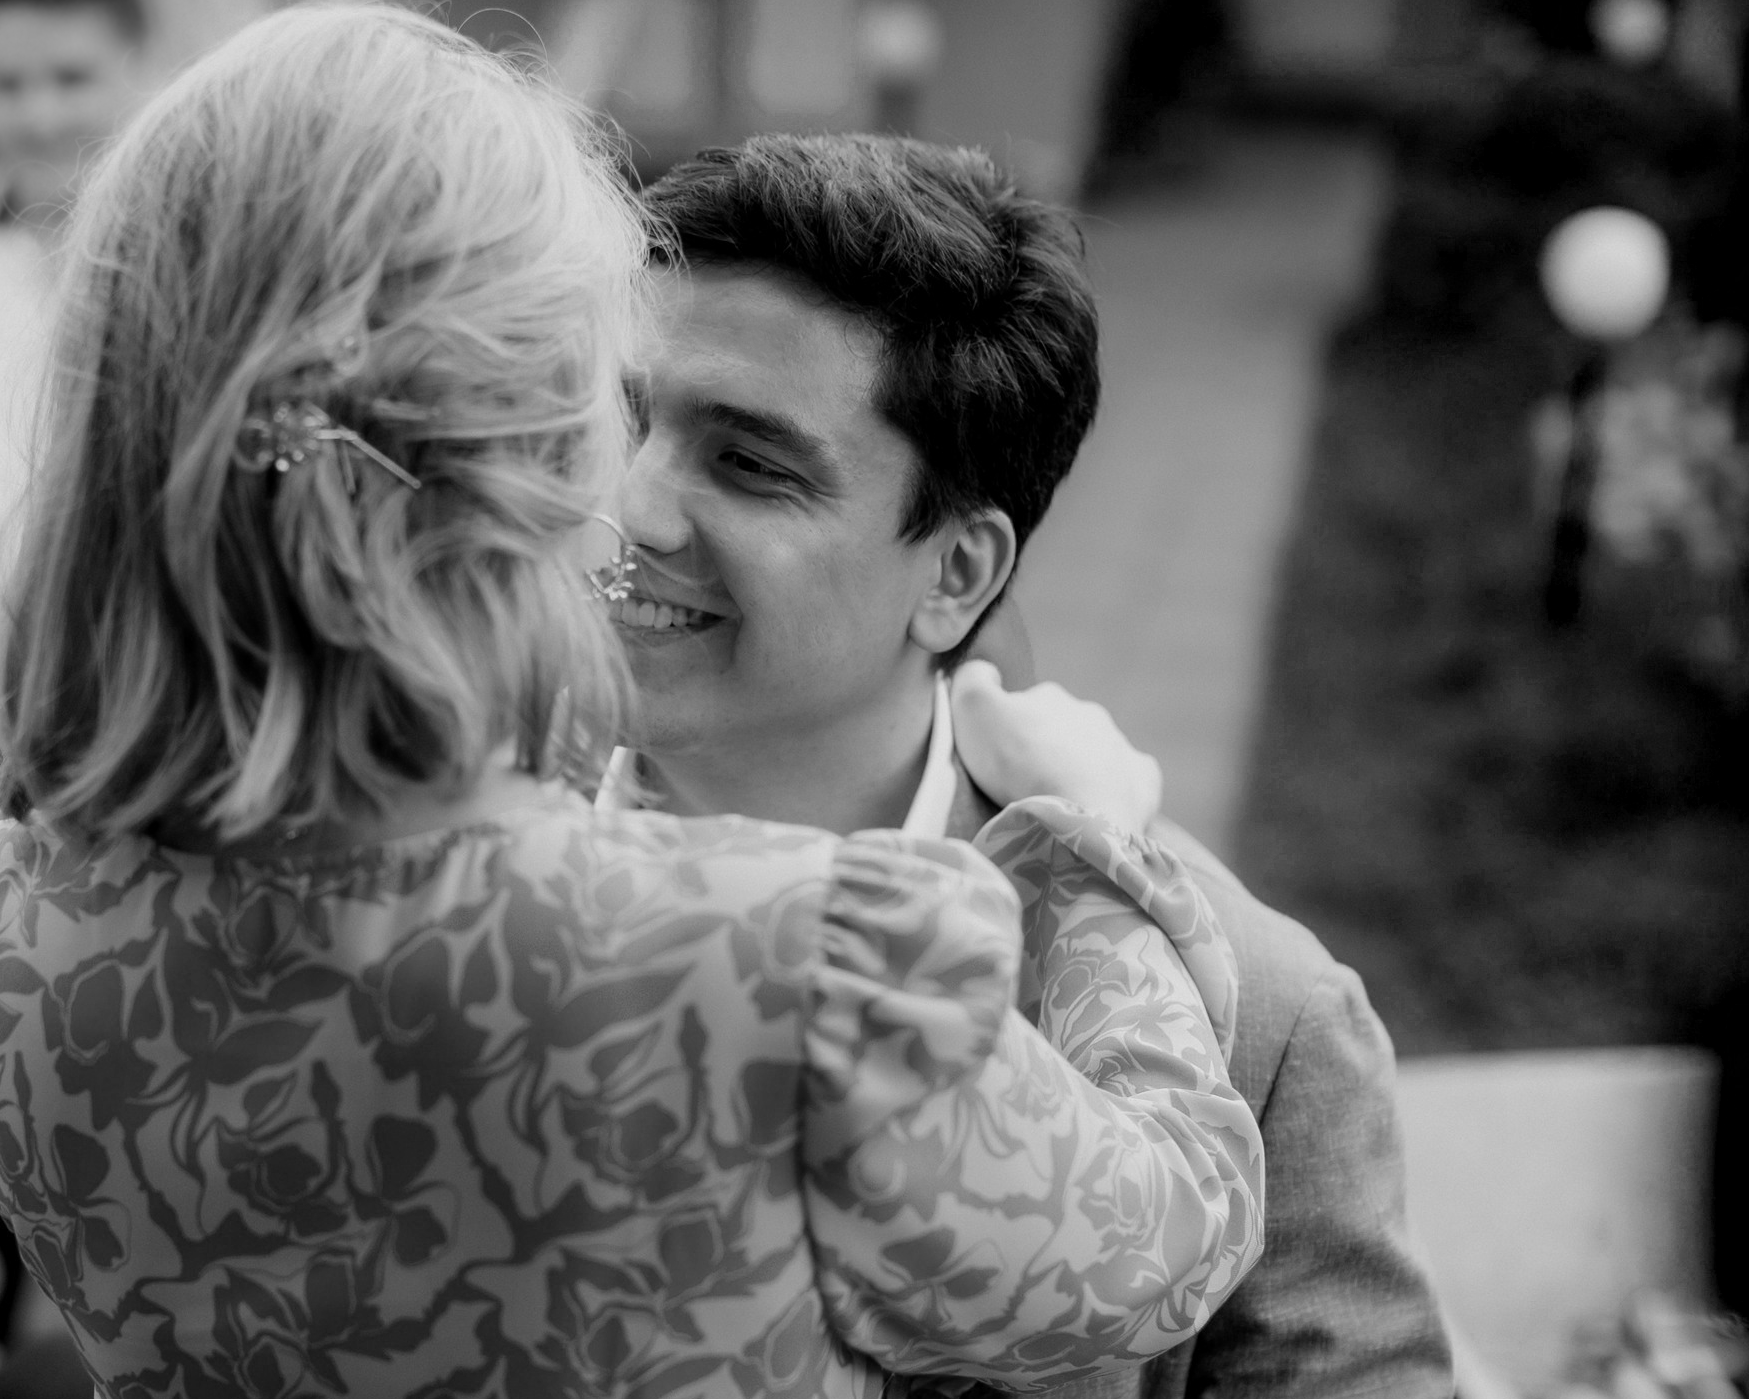
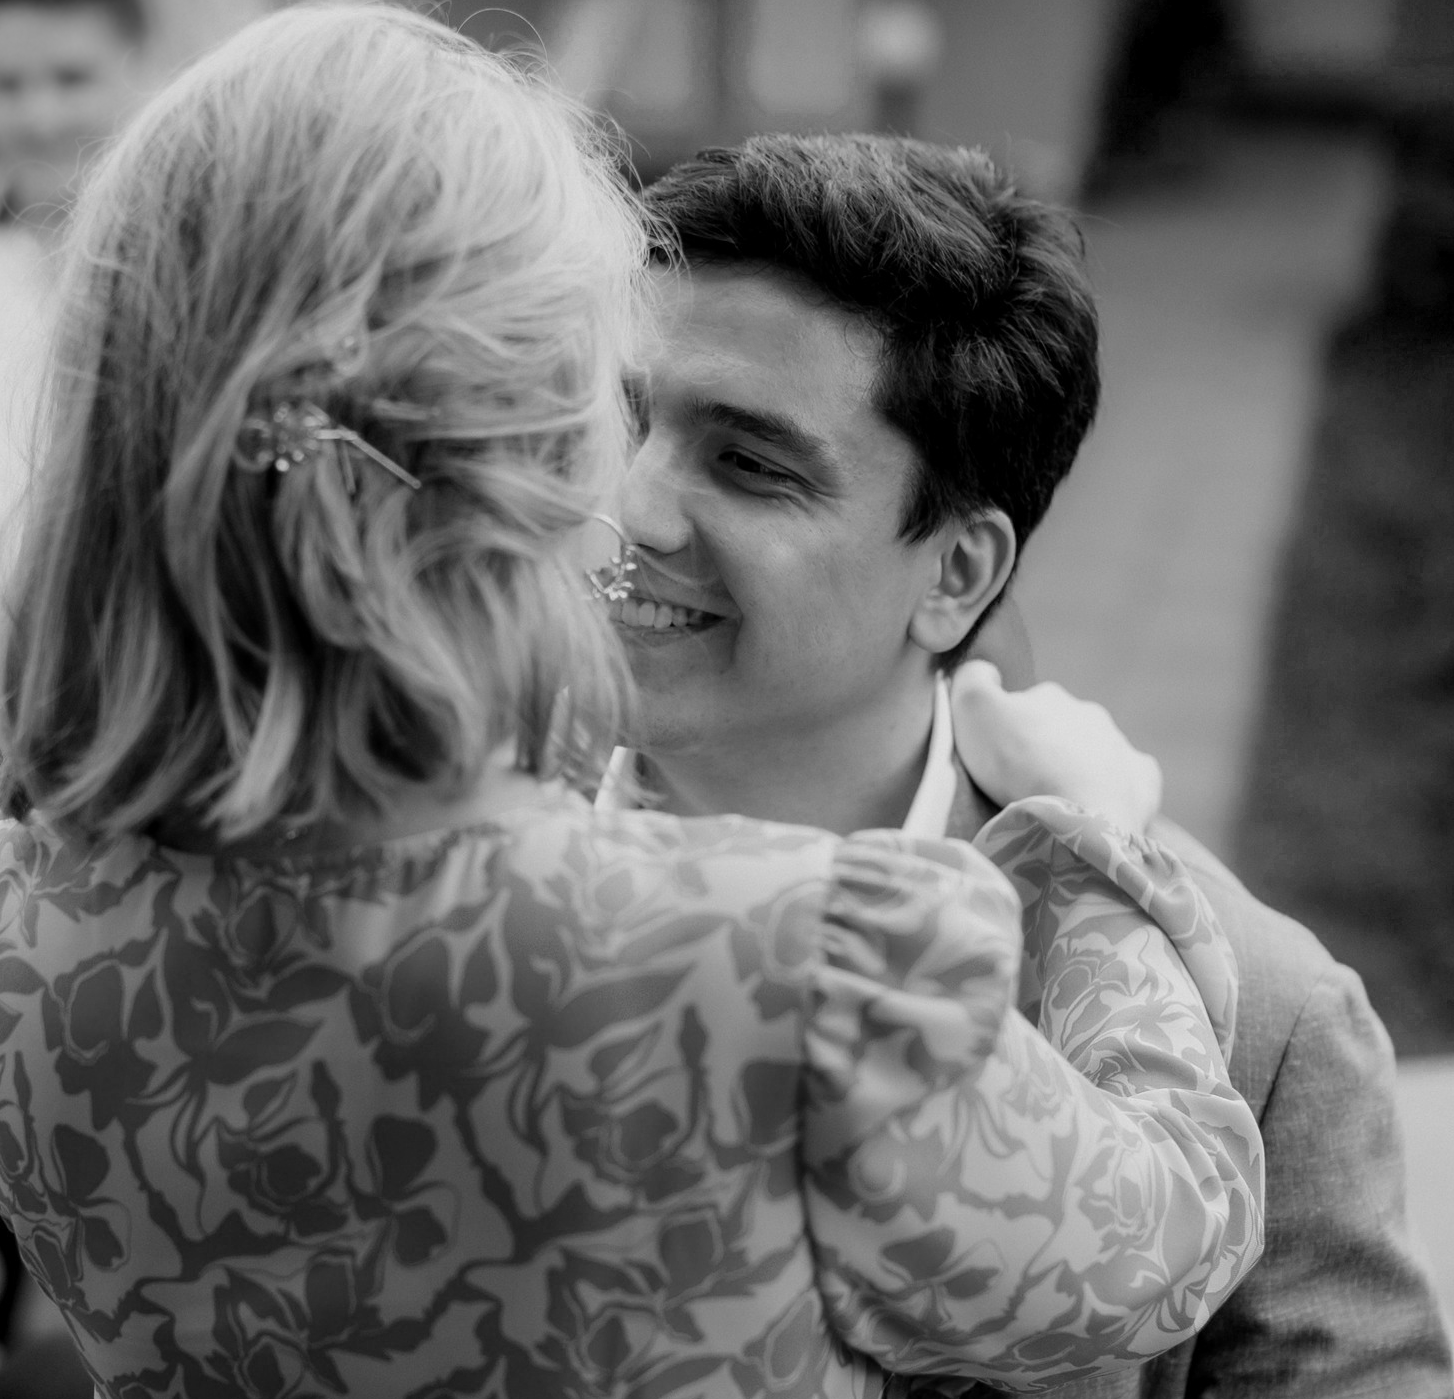
new covers

diff --git a/index.html b/index.html
@@ -217,8 +217,8 @@
     </section>
     
 <!--    <img id="communications-cover" class="communications-cover hidden" src="images/cover-1.png" alt="">-->
-    <img id="communications-cover" class="body-bg hidden" src="images/cover-2.png" alt="">
-<!--    <img id="communications-cover" class="body-bg hidden" src="images/cover-3.png" alt="">-->
+<!--    <img id="communications-cover" class="body-bg hidden" src="images/cover-2.png" alt="">-->
+    <img id="communications-cover" class="body-bg hidden" src="images/cover-3.png" alt="">
     
     <section id="communications" class="communications hidden">
         <div id = "communications-container" class="communications-container hidden">
